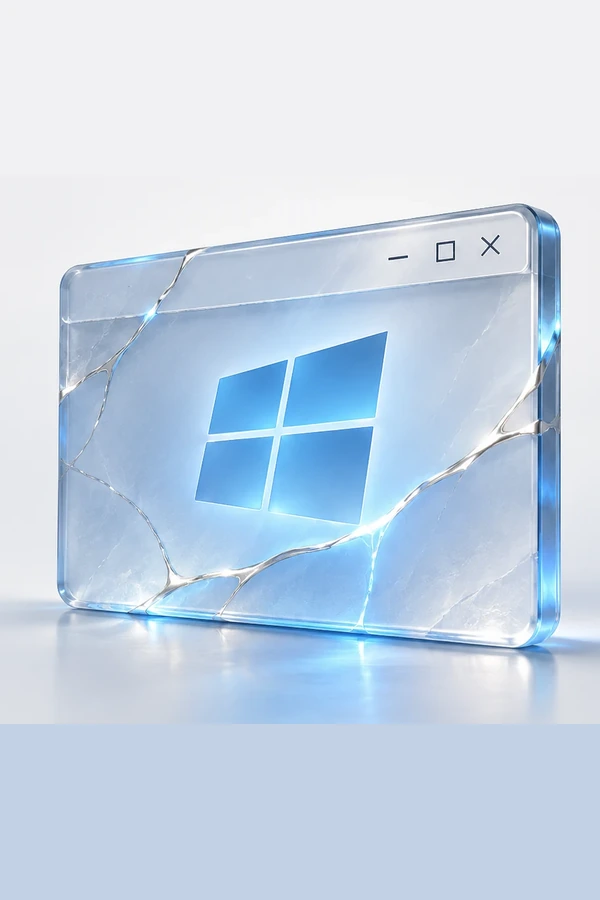
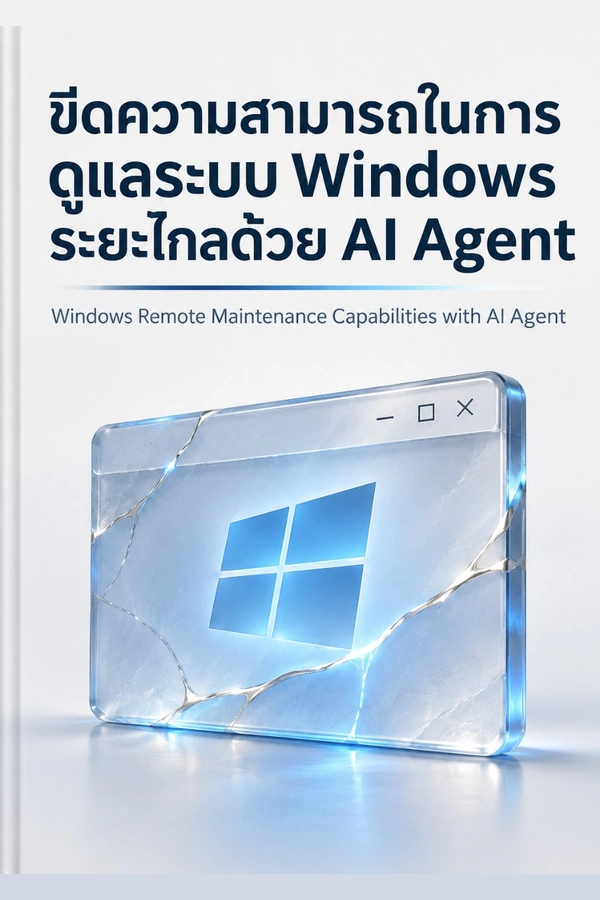
Replace Windows guide with owner-supplied cover

diff --git a/tests/test_windows_ai_agent_remote_maintenance_reading.py b/tests/test_windows_ai_agent_remote_maintenance_reading.py
@@ -13,7 +13,8 @@ BOOK_ID = "windows-ai-agent-remote-maintenance-guide"
 HTML_PATH = ROOT / "Windows_AI_Agent_Remote_Maintenance_Guide.html"
 COVER_PATH = ROOT / "assets" / "covers" / "custom" / f"{BOOK_ID}.webp"
[4 lines of base64/hex data omitted]
 PROHIBITED_PUBLIC_RE = re.compile(
     "|".join(
         [
@@ -80,7 +81,7 @@ class WindowsAiAgentRemoteMaintenanceReadingTests(unittest.TestCase):
         self.assertIsNotNone(embedded_match)
         assert embedded_match is not None
         embedded_cover = base64.b64decode(embedded_match.group(1))
-        self.assertEqual(hashlib.sha256(embedded_cover).hexdigest(), COVER_SOURCE_SHA256)
+        self.assertEqual(hashlib.sha256(embedded_cover).hexdigest(), EMBEDDED_ART_SHA256)
 
         scripts = "\n".join(
             body
@@ -98,7 +99,7 @@ class WindowsAiAgentRemoteMaintenanceReadingTests(unittest.TestCase):
         )
         self.assertEqual(result.returncode, 0, result.stderr)
 
-    def test_embedded_owner_cover_is_normalized_without_cropping(self):
+    def test_final_owner_cover_replaces_embedded_art_without_cropping(self):
         self.assertTrue(COVER_PATH.is_file())
         with Image.open(COVER_PATH) as image:
             self.assertEqual(image.format, "WEBP")
@@ -112,10 +113,11 @@ class WindowsAiAgentRemoteMaintenanceReadingTests(unittest.TestCase):
         template = ROOT / "templates" / "windows-ai-agent-remote-maintenance-guide-cover.template.md"
         self.assertTrue(template.is_file())
         template_text = template.read_text(encoding="utf-8")
-        self.assertIn(COVER_SOURCE_SHA256, template_text)
-        self.assertIn("project-owner supplied image embedded in the supplied HTML", template_text)
+        self.assertIn(OWNER_COVER_SOURCE_SHA256, template_text)
+        self.assertIn(hashlib.sha256(COVER_PATH.read_bytes()).hexdigest(), template_text)
+        self.assertIn("project-owner supplied final cover image attachment", template_text)
         self.assertIn("aspect-preserving containment", template_text)
-        self.assertIn("915×835", template_text)
+        self.assertIn("906×1280", template_text)
         self.assertIn("600×900", template_text)
 
 

diff --git a/templates/windows-ai-agent-remote-maintenance-guide-cover.template.md b/templates/windows-ai-agent-remote-maintenance-guide-cover.template.md
@@ -1,9 +1,10 @@
 # Windows AI Agent Remote Maintenance Guide — cover provenance
 
-- Source: project-owner supplied image embedded in the supplied HTML.
-- Source format: WebP, RGB, 915×835, single frame, no EXIF.
[1 lines of base64/hex data omitted]
+- Source: project-owner supplied final cover image attachment.
+- Source format: JPEG, RGB, 906×1280, single frame, no EXIF.
[1 lines of base64/hex data omitted]
 - Public derivative: `assets/covers/custom/windows-ai-agent-remote-maintenance-guide.webp`.
 - Public derivative format: WebP, RGB, 600×900, single frame, metadata stripped.
[1 lines of base64/hex data omitted]
-- Normalization: aspect-preserving containment; resized to 600×548 and centered on a 600×900 canvas. The upper and lower padding use the corresponding averaged source-edge colors `(241, 240, 243)` and `(195, 210, 229)` to preserve the original framing. No crop, stretch, recolor, retouch, or visible-content edit.
[1 lines of base64/hex data omitted]
+- Normalization: converted through the supplied color profile to sRGB, then aspect-preserving containment; resized to 600×848 and centered on a 600×900 canvas. The upper and lower padding use the corresponding averaged source-edge colors `(240, 240, 240)` and `(209, 216, 227)` to preserve the original framing. No crop, stretch, recolor, retouch, or visible-content edit.
+- Supersedes the provisional shelf artwork extracted from the owner-supplied HTML; the stable catalog ID, title, HTML, href, publication date, and cover path remain unchanged.
